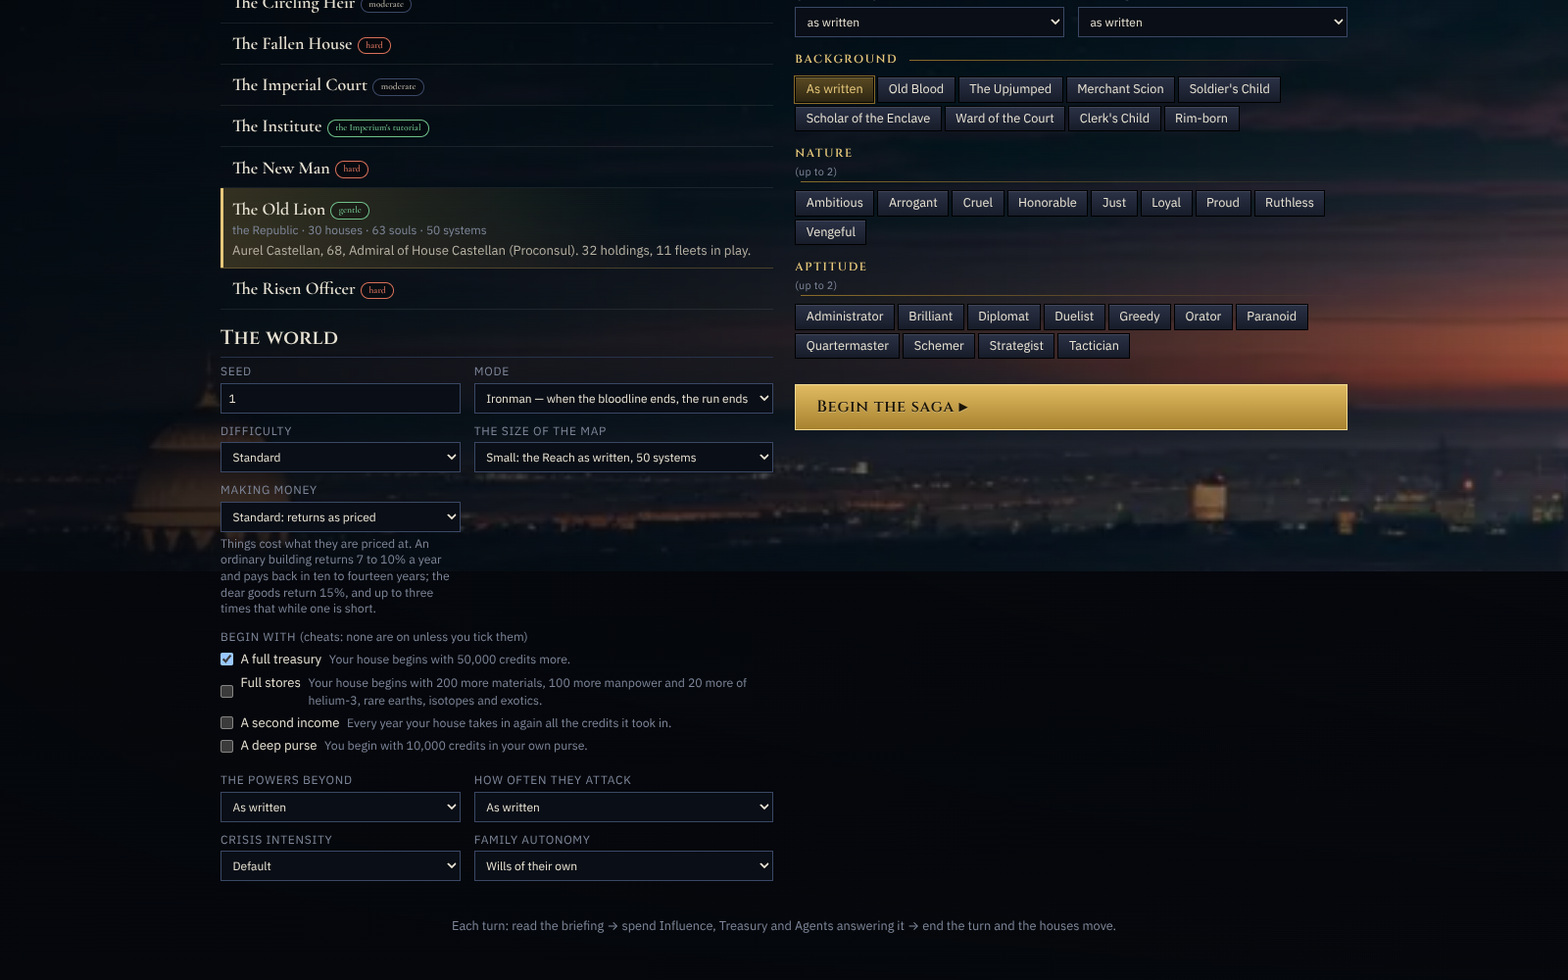
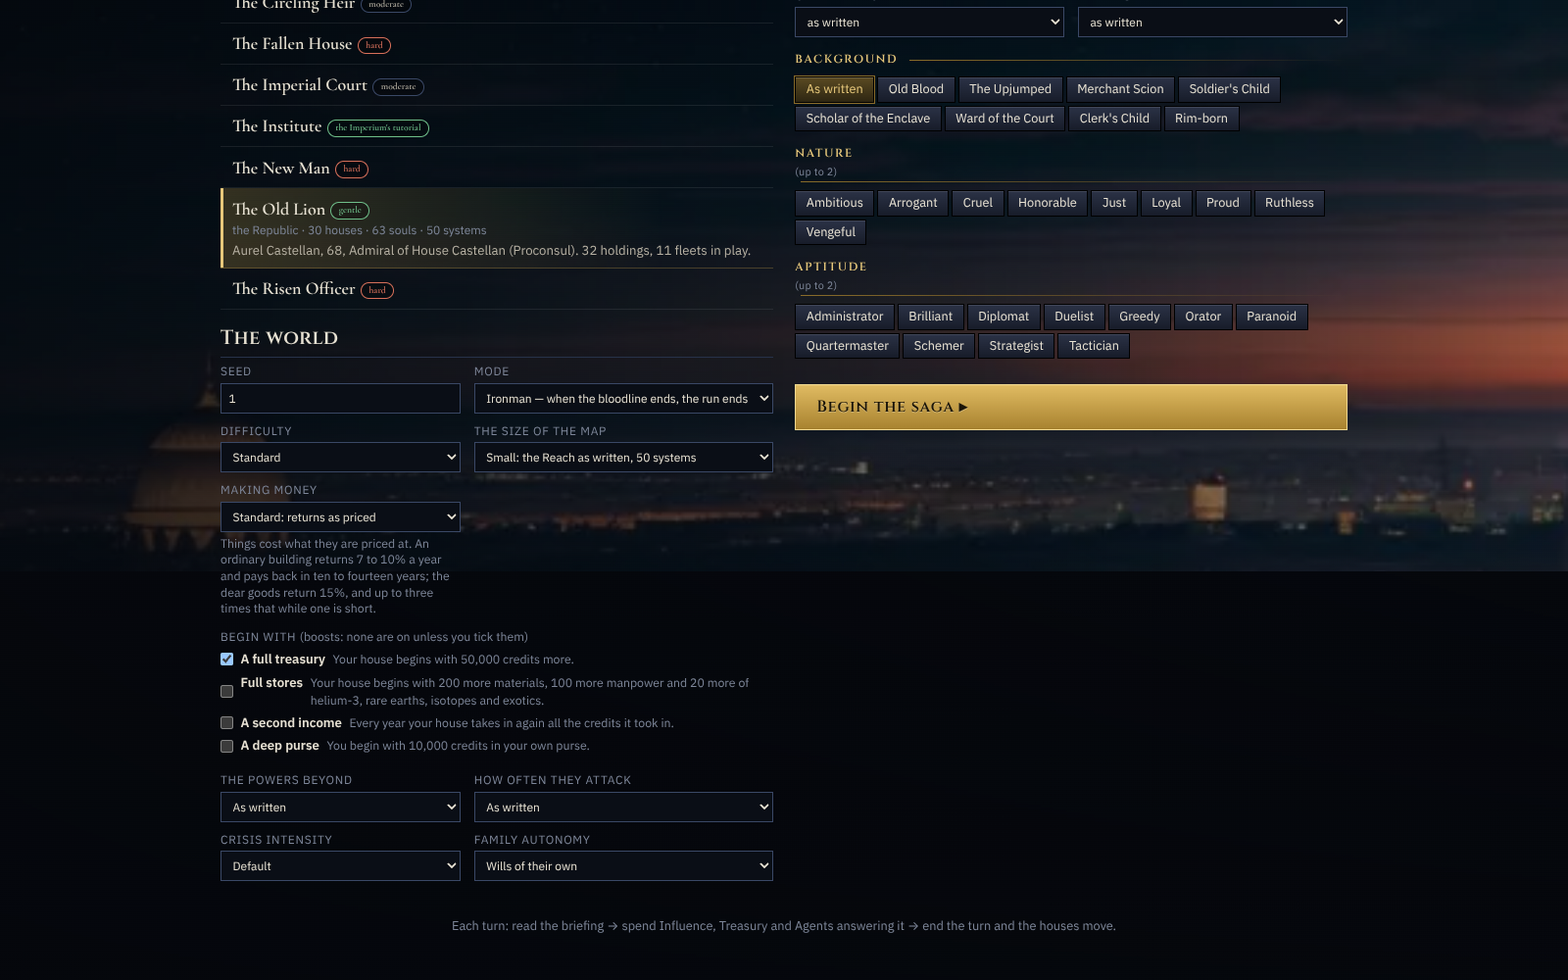
They are boosts, not cheats
The owner: "Those aren't cheats. Just boosts." The four things a game may
be begun with are called boosts on the new-game screen, the House window,
the chronicle, the docs and in the code. A save made in the day they were
called cheats still carries them.

Claude-Session: https://claude.ai/code/session_01Bt3ZZQwXj2ymKrxAugQeX5

Changed region(s): [[0.1562, 0.651, 0.4688, 0.775]]

diff --git a/src/Web/wwwroot/css/app.css b/src/Web/wwwroot/css/app.css
@@ -1119,10 +1119,10 @@ body:has(.title-screen)::before { content: ""; position: fixed; inset: 0; backgr
 .ev-body .facts { border-left: 2px solid var(--brass); padding-left: .6rem; color: var(--ink-2, #b9b3a3); margin-top: .5rem; }
 .mark-word { border-bottom: 1px dotted var(--line); cursor: help; } .mark-word + .mark-word::before { content: " · "; }
 .law-open { margin-left: .45rem; white-space: nowrap; color: var(--brass2); border: 1px solid var(--brass3); border-radius: 3px; padding: 0 .4rem; font-size: .72rem; letter-spacing: .04em; } .law-head:hover .law-open { background: rgba(200,160,80,.15); }
-.setting-cheats { grid-column: 1 / -1; display: grid; gap: .3rem; margin: .2rem 0 .5rem; font-size: .8rem; color: var(--muted); }
-.setting-cheats > span { text-transform: uppercase; letter-spacing: .06em; } .setting-cheats > span .small { text-transform: none; letter-spacing: 0; }
-.setting-cheats label.cheat { display: grid; grid-template-columns: auto auto 1fr; align-items: baseline; gap: .5rem; text-transform: none; letter-spacing: 0; font-size: .88rem; color: var(--text, #e8e2d4); cursor: pointer; }
-.setting-cheats label.cheat input { width: auto; margin: 0; align-self: center; } .setting-cheats label.cheat b { font-weight: 600; white-space: nowrap; }
+.setting-boosts { grid-column: 1 / -1; display: grid; gap: .3rem; margin: .2rem 0 .5rem; font-size: .8rem; color: var(--muted); }
+.setting-boosts > span { text-transform: uppercase; letter-spacing: .06em; } .setting-boosts > span .small { text-transform: none; letter-spacing: 0; }
+.setting-boosts label.boost { display: grid; grid-template-columns: auto auto 1fr; align-items: baseline; gap: .5rem; text-transform: none; letter-spacing: 0; font-size: .88rem; color: var(--text, #e8e2d4); cursor: pointer; }
+.setting-boosts label.boost input { width: auto; margin: 0; align-self: center; } .setting-boosts label.boost b { font-weight: 600; white-space: nowrap; }
 label [data-money-does] { text-transform: none; letter-spacing: 0; line-height: 1.35; }
 .money-settings { margin: -.2rem 0 .6rem; }
 .court-sum { margin: .1rem 0 .6rem; } .court-offers { display: grid; gap: .3rem; margin: .35rem 0; }

diff --git a/src/Core/Systems/MoneySettings.cs b/src/Core/Systems/MoneySettings.cs
@@ -47,13 +47,14 @@ public static class ReturnTargets
 }
 
 /// <summary>
-/// How easy money is in a game, and the cheats a game may be begun with (docs/MONEY.md, "Settings"; the owner, 2026-11-23: "having
+/// How easy money is in a game, and the boosts a game may be begun with (docs/MONEY.md, "Settings"; the owner, 2026-11-23: "having
 /// settings for how easy it is to make money and even some cheats to select in the beginning is useful. So you can choose the
-/// 'difficulty' of making money and how returns are scaled. Let's just put our numbers as the default").
+/// 'difficulty' of making money and how returns are scaled. Let's just put our numbers as the default"; and of what was first built
+/// under that name, "Those aren't cheats. Just boosts").
 /// <para><b>How easy money is</b> scales what everything that is built costs, and so what it returns: at the standard setting a thing
 /// costs what the content says and returns what its kind is meant to (<see cref="ReturnTargets"/>). It is every house's, not only
 /// the player's. Hulls are not scaled.</para>
-/// <para><b>Cheats</b> are the player's house's alone, are chosen when the game is begun, and are written on the save.</para>
+/// <para><b>Boosts</b> are the player's house's alone, are chosen when the game is begun, and are written on the save.</para>
 /// </summary>
 public static class MoneySettings
 {
@@ -71,10 +72,10 @@ public static class MoneySettings
     };
 
     public const string FullTreasury = "full_treasury", FullStores = "full_stores", DoubleIncome = "double_income", DeepPurse = "deep_purse";
-    public static readonly string[] Cheats = { FullTreasury, FullStores, DoubleIncome, DeepPurse };
+    public static readonly string[] Boosts = { FullTreasury, FullStores, DoubleIncome, DeepPurse };
     public const int TreasuryGift = 500, PurseGift = 100, StoresMaterials = 200, StoresManpower = 100, StoresDear = 20;
-    public static string CheatName(string id) => id switch { FullTreasury => "A full treasury", FullStores => "Full stores", DoubleIncome => "A second income", DeepPurse => "A deep purse", _ => id };
-    public static string CheatDoes(string id) => id switch
+    public static string BoostName(string id) => id switch { FullTreasury => "A full treasury", FullStores => "Full stores", DoubleIncome => "A second income", DeepPurse => "A deep purse", _ => id };
+    public static string BoostDoes(string id) => id switch
     {
         FullTreasury => $"Your house begins with {Money.Credits(TreasuryGift)} more.",
         FullStores => $"Your house begins with {StoresMaterials} more materials, {StoresManpower} more manpower and {StoresDear} more of helium-3, rare earths, isotopes and exotics.",
@@ -82,19 +83,19 @@ public static class MoneySettings
         DeepPurse => $"You begin with {Money.Credits(PurseGift)} in your own purse.",
         _ => ""
     };
-    private const string BegunFlag = "cheats_begun";
+    private const string BegunFlag = "boosts_begun";
 
-    /// <summary>What a game begun with cheats says of itself, or "" for a game begun with none.</summary>
-    public static string Says(World w) => w.Cheats.Count == 0 ? "" : "Begun with: " + string.Join(", ", Cheats.Where(w.Cheats.Contains).Select(CheatName));
+    /// <summary>What a game begun with boosts says of itself, or "" for a game begun with none.</summary>
+    public static string Says(World w) => w.Boosts.Count == 0 ? "" : "Begun with: " + string.Join(", ", Boosts.Where(w.Boosts.Contains).Select(BoostName));
 
-    /// <summary>Give the player's house what its cheats give at the start. Once: asking again gives nothing.</summary>
+    /// <summary>Give the player's house what its boosts give at the start. Once: asking again gives nothing.</summary>
     public static void Begin(World w)
     {
-        if (w.Cheats.Count == 0 || w.WorldFlags.Contains(BegunFlag) || w.Protagonist is not { } p || w.House(p.HouseId) is not { } house) return;
+        if (w.Boosts.Count == 0 || w.WorldFlags.Contains(BegunFlag) || w.WorldFlags.Contains("cheats_begun") || w.Protagonist is not { } p || w.House(p.HouseId) is not { } house) return;
         w.WorldFlags.Add(BegunFlag);
-        if (w.Cheats.Contains(FullTreasury)) house.Treasury.Credits += TreasuryGift;
-        if (w.Cheats.Contains(FullStores)) { house.Treasury.Materials += StoresMaterials; house.Treasury.Manpower += StoresManpower; foreach (var r in new[] { Resource.Helium3, Resource.RareEarths, Resource.Isotopes, Resource.Exotics }) house.Treasury.Add(r, StoresDear); }
-        if (w.Cheats.Contains(DeepPurse)) p.Purse += PurseGift;
+        if (w.Boosts.Contains(FullTreasury)) house.Treasury.Credits += TreasuryGift;
+        if (w.Boosts.Contains(FullStores)) { house.Treasury.Materials += StoresMaterials; house.Treasury.Manpower += StoresManpower; foreach (var r in new[] { Resource.Helium3, Resource.RareEarths, Resource.Isotopes, Resource.Exotics }) house.Treasury.Add(r, StoresDear); }
+        if (w.Boosts.Contains(DeepPurse)) p.Purse += PurseGift;
         w.Log($"{house.Name} begins with more than it had. {Says(w)}.");
     }
 

diff --git a/tests/MoneySettingsTests.cs b/tests/MoneySettingsTests.cs
@@ -6,7 +6,7 @@ using Xunit;
 
 namespace Praetoria.Tests;
 
-/// <summary>The ranged returns as the game's own prices, how easy money is, and the cheats a game may be begun with
+/// <summary>The ranged returns as the game's own prices, how easy money is, and the boosts a game may be begun with
 /// (docs/MONEY.md, "Settings"; docs/ECONOMY_REVIEW.md, "Ranged returns").</summary>
 public class MoneySettingsTests
 {
@@ -46,25 +46,28 @@ public class MoneySettingsTests
         Assert.All(Content.Holdings.Works, x => Assert.All(Resource.All, r => Assert.True(x.Cost.Get(r) >= 0))); Assert.Equal(hull, Content.ShipClasses.Defs[0].Cost.Materials);
         _ = new TurnController(Start(), Content);
         // and the setting is kept by a save
-        var kept = Start(); kept.MoneyEase = MoneySettings.Lean; kept.Cheats.Add(MoneySettings.DeepPurse); var back = SaveSystem.Deserialize(SaveSystem.Serialize(kept));
-        Assert.Equal(MoneySettings.Lean, back.MoneyEase); Assert.Contains(MoneySettings.DeepPurse, back.Cheats);
+        var kept = Start(); kept.MoneyEase = MoneySettings.Lean; kept.Boosts.Add(MoneySettings.DeepPurse); var back = SaveSystem.Deserialize(SaveSystem.Serialize(kept));
+        Assert.Equal(MoneySettings.Lean, back.MoneyEase); Assert.Contains(MoneySettings.DeepPurse, back.Boosts);
+        // a save made in the day they were called cheats still carries them, and what is written now does not use the word
+        string saved = SaveSystem.Serialize(kept); Assert.Contains("\"Boosts\"", saved); Assert.DoesNotContain("Cheats", saved);
+        Assert.Contains(MoneySettings.DeepPurse, SaveSystem.Deserialize(saved.Replace("\"Boosts\"", "\"Cheats\"")).Boosts);
     }
 
     [Fact]
-    public void A_game_begun_with_cheats_gives_the_players_house_what_they_give_once_and_says_so()
+    public void A_game_begun_with_boosts_gives_the_players_house_what_they_give_once_and_says_so()
     {
         var w = Start(); var p = w.Protagonist!; var house = w.House(p.HouseId)!; var other = w.Houses.Values.First(h => h.Id != house.Id && !World.Outsider(h.Id)); int otherHad = other.Treasury.Credits;
         Assert.Equal("", MoneySettings.Says(w)); MoneySettings.Begin(w); Assert.DoesNotContain(w.History, h => h.Text.Contains("Begun with"));
         int credits = house.Treasury.Credits, materials = house.Treasury.Materials, rare = house.Treasury.RareEarths, purse = p.Purse;
-        foreach (var c in MoneySettings.Cheats) { w.Cheats.Add(c); Assert.NotEqual(c, MoneySettings.CheatName(c)); Assert.True(MoneySettings.CheatDoes(c).Length > 20); }
+        foreach (var c in MoneySettings.Boosts) { w.Boosts.Add(c); Assert.NotEqual(c, MoneySettings.BoostName(c)); Assert.True(MoneySettings.BoostDoes(c).Length > 20); }
         MoneySettings.Begin(w); MoneySettings.Begin(w);   // asked twice, given once
         Assert.Equal(credits + MoneySettings.TreasuryGift, house.Treasury.Credits); Assert.Equal(materials + MoneySettings.StoresMaterials, house.Treasury.Materials);
         Assert.Equal(rare + MoneySettings.StoresDear, house.Treasury.RareEarths); Assert.Equal(purse + MoneySettings.PurseGift, p.Purse); Assert.Equal(otherHad, other.Treasury.Credits);
         Assert.Contains("A full treasury", MoneySettings.Says(w)); Assert.Contains(w.History, h => h.Text.Contains("Begun with"));
-        Assert.Contains("50,000 credits", MoneySettings.CheatDoes(MoneySettings.FullTreasury));
+        Assert.Contains("50,000 credits", MoneySettings.BoostDoes(MoneySettings.FullTreasury));
         // the second income is a line of the player's ledger and nobody else's
         var tc = new TurnController(w, ContentLoader.LoadFromDirectory(ContentLocator.FindContentDir())); var led = tc.Economy.Compute(w, house.Id, tc.Fleets);
-        int earned = led.Lines.Where(l => l.Kind != "cheat" && l.Delta.Credits > 0).Sum(l => l.Delta.Credits); Assert.Equal(earned, led.Lines.Single(l => l.Kind == "cheat").Delta.Credits);
-        Assert.DoesNotContain(tc.Economy.Compute(w, other.Id, tc.Fleets).Lines, l => l.Kind == "cheat");
+        int earned = led.Lines.Where(l => l.Kind != "boost" && l.Delta.Credits > 0).Sum(l => l.Delta.Credits); Assert.Equal(earned, led.Lines.Single(l => l.Kind == "boost").Delta.Credits);
+        Assert.DoesNotContain(tc.Economy.Compute(w, other.Id, tc.Fleets).Lines, l => l.Kind == "boost");
     }
 }

diff --git a/src/Web/Services/GameClient.cs b/src/Web/Services/GameClient.cs
@@ -132,13 +132,13 @@ public sealed class GameClient
     public Scenario Scenario(string id) => ScenarioLoader.LoadFromContent(ContentRoot, id);
 
     /// <summary>Start a run: build the world, apply character creation, open the first turn's briefing.</summary>
-    public void Start(string scenarioId, ulong seed, CreationOptions creation, string mode, double difficulty, string intensity, double autonomy, string beyond = "default", string aggression = "default", string size = "small", string ease = "standard", IEnumerable<string>? cheats = null)
+    public void Start(string scenarioId, ulong seed, CreationOptions creation, string mode, double difficulty, string intensity, double autonomy, string beyond = "default", string aggression = "default", string size = "small", string ease = "standard", IEnumerable<string>? boosts = null)
     {
         var content = Content ?? throw new InvalidOperationException("Content not loaded.");
         Changing();
         var world = WorldBuilder.FromScenario(Scenario(scenarioId), seed);
         world.Mode = mode; world.Difficulty = difficulty; world.CrisisIntensity = intensity; world.FamilyAutonomy = autonomy; world.Beyond = beyond; world.BeyondAggression = aggression;
-        world.MoneyEase = ease; foreach (var ch in cheats ?? Array.Empty<string>()) world.Cheats.Add(ch);   // how easy money is, and what the game is begun with (docs/MONEY.md, "Settings")
+        world.MoneyEase = ease; foreach (var ch in boosts ?? Array.Empty<string>()) world.Boosts.Add(ch);   // how easy money is, and what the game is begun with (docs/MONEY.md, "Settings")
         Praetoria.Core.Galaxy.GalaxyGrowth.Grow(world, content, size);   // a larger map, if one was asked for (docs/GALAXY_SIZE.md)
         if (!creation.IsEmpty) CharacterCreation.Apply(world, content, creation);
         ScenarioId = scenarioId; Seed = seed;
@@ -161,13 +161,13 @@ public sealed class GameClient
     }
 
     /// <summary>Start a run with a character of the player's own making.</summary>
-    public void StartCustom(CustomCharacter spec, ulong seed, string mode, double difficulty, string intensity, double autonomy, string beyond = "default", string aggression = "default", string size = "small", string ease = "standard", IEnumerable<string>? cheats = null)
+    public void StartCustom(CustomCharacter spec, ulong seed, string mode, double difficulty, string intensity, double autonomy, string beyond = "default", string aggression = "default", string size = "small", string ease = "standard", IEnumerable<string>? boosts = null)
     {
         var content = Content ?? throw new InvalidOperationException("Content not loaded.");
         Changing();
         var world = WorldBuilder.FromScenario(Scenario(CharacterWorkshop.BaseFor(spec)), seed);
         world.Mode = mode; world.Difficulty = difficulty; world.CrisisIntensity = intensity; world.FamilyAutonomy = autonomy; world.Beyond = beyond; world.BeyondAggression = aggression;
-        world.MoneyEase = ease; foreach (var ch in cheats ?? Array.Empty<string>()) world.Cheats.Add(ch);   // how easy money is, and what the game is begun with (docs/MONEY.md, "Settings")
+        world.MoneyEase = ease; foreach (var ch in boosts ?? Array.Empty<string>()) world.Boosts.Add(ch);   // how easy money is, and what the game is begun with (docs/MONEY.md, "Settings")
         Praetoria.Core.Galaxy.GalaxyGrowth.Grow(world, content, size);   // a larger map, if one was asked for (docs/GALAXY_SIZE.md)
         CharacterWorkshop.Apply(world, content, spec);
         ScenarioId = "a character of your own"; Seed = seed;

diff --git a/src/Core/Systems/Economy.cs b/src/Core/Systems/Economy.cs
@@ -179,9 +179,9 @@ public sealed class Economy
             foreach (var f in world.Fleets.Values.Where(f => FleetSystem.BilledTo(f, chairId) == houseId).OrderBy(f => f.Id, StringComparer.Ordinal)) { var up = fleets.Upkeep(f); var d = new Resources(); foreach (var r in Resource.All) d.Add(r, -up.Get(r)); ledger.Add(f.Office ? f.Name + " (office)" : f.Name, "fleet", d); }
             int fuel = fleets.FuelBill(world, houseId); if (fuel > 0) ledger.Add("fuel for the fleet", "fuel", new Resources { Helium3 = -fuel });
         }
-        // a cheat the game was begun with: the player's house takes in its credits twice (docs/MONEY.md, "Settings")
-        if (world.Cheats.Contains(MoneySettings.DoubleIncome) && world.Protagonist?.HouseId == houseId)
-        { int again = ledger.Lines.Where(l => l.Delta.Credits > 0).Sum(l => l.Delta.Credits); if (again > 0) ledger.Add("a second income (begun with)", "cheat", new Resources { Credits = again }); }
+        // a boost the game was begun with: the player's house takes in its credits twice (docs/MONEY.md, "Settings")
+        if (world.Boosts.Contains(MoneySettings.DoubleIncome) && world.Protagonist?.HouseId == houseId)
+        { int again = ledger.Lines.Where(l => l.Delta.Credits > 0).Sum(l => l.Delta.Credits); if (again > 0) ledger.Add("a second income (begun with)", "boost", new Resources { Credits = again }); }
         _law = null;
         return ledger;
     }

diff --git a/src/Core/State/World.cs b/src/Core/State/World.cs
@@ -46,8 +46,11 @@ public sealed class World
     /// <summary>How easy money is in this game (<see cref="Systems.MoneySettings"/>): "lean", "standard", "generous" or "lavish". It scales
     /// what everything that is built costs, for every house.</summary>
     public string MoneyEase { get; set; } = "standard";
-    /// <summary>The cheats this game was begun with (<see cref="Systems.MoneySettings.Cheats"/>): the player's house's alone.</summary>
-    public HashSet<string> Cheats { get; set; } = new();
+    /// <summary>The boosts this game was begun with (<see cref="Systems.MoneySettings.Boosts"/>): the player's house's alone.</summary>
+    public HashSet<string> Boosts { get; set; } = new();
+    /// <summary>What <see cref="Boosts"/> was called for a day: read from a save made then, never written.</summary>
+    [System.Text.Json.Serialization.JsonIgnore(Condition = System.Text.Json.Serialization.JsonIgnoreCondition.WhenWritingNull)]
+    public HashSet<string>? Cheats { get => null; set { if (value != null) Boosts.UnionWith(value); } }
 
     /// <summary>GDD §20 "crisis intensity": off / low / default / dominant — how fast the Great Crisis clock runs.</summary>
     public string CrisisIntensity { get; set; } = "default";

diff --git a/docs/MONEY.md b/docs/MONEY.md
@@ -49,11 +49,12 @@ A scene pays single credits with `adjustResource` on the resource `coin`.
 | `Treasury.Coin`, `Retainer.Wage`, an effect on `coin` | single credits |
 | The docs written before this page | were in the old figures; the amounts in them have been multiplied through, and a figure given "in the books" is in hundreds |
 
-## Settings: how easy money is, and cheats
+## Settings: how easy money is, and boosts
 
 What the owner said (2026-11-23): *"I think having settings for how easy it is to make money and even some cheats to
 select in the beginning is useful. So you can choose the 'difficulty' of making money and how returns are scaled. Let's
-just put our numbers as the default."*
+just put our numbers as the default."* And of the four things first built under that name: *"Those aren't cheats. Just
+boosts."* They are called boosts. Nothing in the game is called a cheat.
 
 **Our numbers are the default.** The content files are priced so that each thing returns what its kind is meant to
 (docs/ECONOMY_REVIEW.md, "Ranged returns"): a market, a port or a power plant 7% a year, farming 8%, finance 9%, a
@@ -83,20 +84,20 @@ econ --seeds 2`); the middle house, in credits:
 
 Lavish is about what the game was before the prices were changed: money piles up and stops mattering.
 
-**Cheats** are ticked on the same screen, are your house's alone, and are given once when the game begins. None is on
+**Boosts** are ticked on the same screen, are your house's alone, and are given once when the game begins. None is on
 unless it is ticked.
 
-| Cheat | What it gives |
+| Boost | What it gives |
 |---|---|
 | A full treasury | 50,000 credits more |
 | Full stores | 200 materials, 100 manpower, and 20 each of helium-3, rare earths, isotopes and exotics |
 | A second income | every year, again all the credits the house took in |
 | A deep purse | 10,000 credits in your own purse |
 
-A game begun with a cheat, or at a setting other than Standard, says so: a line in the chronicle, and a line at the
+A game begun with a boost, or at a setting other than Standard, says so: a line in the chronicle, and a line at the
 head of the House window for as long as the game is played. Neither can be changed in a game.
 
-The figures (the four settings, what each cheat gives) are mine.
+The figures (the four settings, what each boost gives) are mine.
 
 ## What I chose
 

diff --git a/docs/GAPS.md b/docs/GAPS.md
@@ -331,7 +331,7 @@ Measured by `upstart` (three services, four seeds, sixty years). U8 to U11 are c
 | M5 | The economy as a whole is out of proportion with itself: ordinary things pay back in one to three years, houses bank four fifths of their income, nobody is paid to crew a hull or run a world, and pay is nearly flat from cadet to admiral. Sampled against real-world ratios in docs/ECONOMY_REVIEW.md, with targets and two ways to retune. | L | the owner: the targets, and which way |
 | M6 | Salaries are still on trial (docs/ECONOMY_REVIEW.md, "Trials") and off in every game: no flat rate tried is more than a fifth of a house's income, and it shrinks as the house grows. To try next: pay as a share of what a building, a venture or a hull earns or costs. | L | the owner: after seeing shares measured |
 | M7 | The other houses choose what to build by rules written for the old prices. At the new ones they build about a quarter fewer buildings and four tenths fewer ventures in 30 years, and nothing tells them a dear good in a spike is the thing to build. | M | |
-| M8 | "Making money" scales only what things cost. There is no setting for what worlds yield, for upkeep, or for the price of single acts, and the cheats are four fixed gifts chosen at the start: none can be turned on in a game. | S | the owner: which further settings or cheats |
+| M8 | "Making money" scales only what things cost. There is no setting for what worlds yield, for upkeep, or for the price of single acts, and the boosts are four fixed gifts chosen at the start: none can be turned on in a game. | S | the owner: which further settings or boosts |
 | M9 | The prices of single acts (a physician, a dowry, the census fee: docs/ECONOMY_REVIEW.md section 4) are untouched and still out of scale with incomes. | M | |
 | M4 | The older Godot client and saved games made before this show and hold the same figures; nothing in a save needed changing, but a chronicle written before the change quotes the old figures. | S | |
 

diff --git a/docs/WEB_CLIENT.md b/docs/WEB_CLIENT.md
@@ -111,9 +111,9 @@ screen, closed on leaving, turned upward at the foot of the screen.
 ## Money settings at the start of a game
 
 The creation screen has **Making money** (`[data-setting=money]`: lean, standard, generous, lavish, with a line under it
-saying what the chosen one does) and **Begin with** (`[data-setting=cheats]`, a tick box for each cheat, `[data-cheat]`).
-`GameClient.Start` and `StartCustom` take them; `MoneySettings.Begin` gives the cheats once. A game at any setting but
-Standard, or begun with a cheat, shows `[data-money-settings]` at the head of the House window. docs/MONEY.md, "Settings".
+saying what the chosen one does) and **Begin with** (`[data-setting=boosts]`, a tick box for each boost, `[data-boost]`).
+`GameClient.Start` and `StartCustom` take them; `MoneySettings.Begin` gives the boosts once. A game at any setting but
+Standard, or begun with a boost, shows `[data-money-settings]` at the head of the House window. docs/MONEY.md, "Settings".
 
 ## Money on the screens
 

diff --git a/docs/ECONOMY_REVIEW.md b/docs/ECONOMY_REVIEW.md
@@ -394,7 +394,7 @@ to. The tables of section 2 are the prices **before** this; the kinds and their 
 
 Three things went with it:
 
-- A setting for **how easy money is**, chosen when a game is begun, and four **cheats** (docs/MONEY.md, "Settings").
+- A setting for **how easy money is**, chosen when a game is begun, and four **boosts** (docs/MONEY.md, "Settings").
 - The four great cities' own buildings (the Senate's Precinct, the Institute's Halls, the Great Exchange, the Great
   Pit) are now dearer than some great works, because they pay well and are priced by what they pay.
 - What older pages measured (how fast a new house rises in docs/UPSTART.md, the playthroughs) was measured at the old
